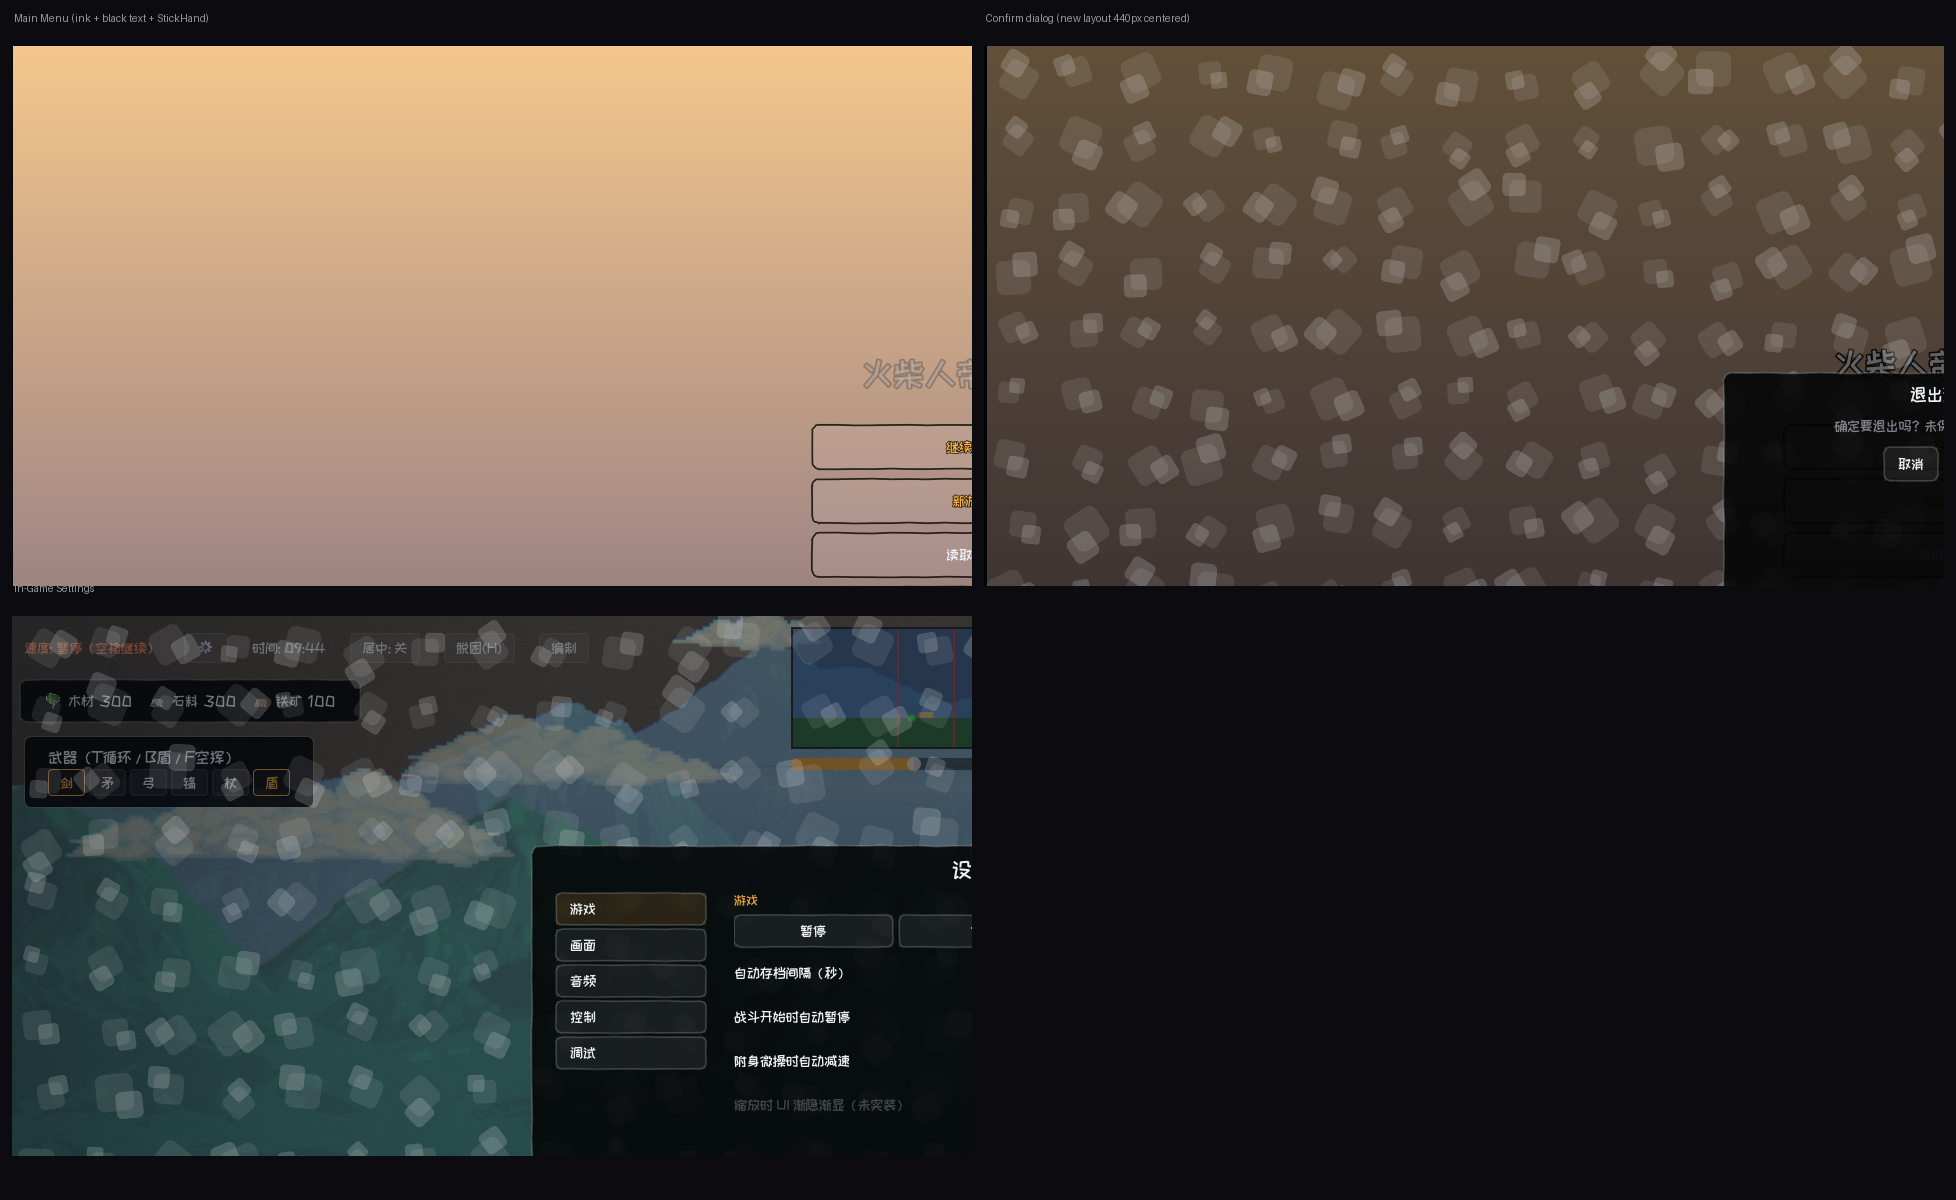
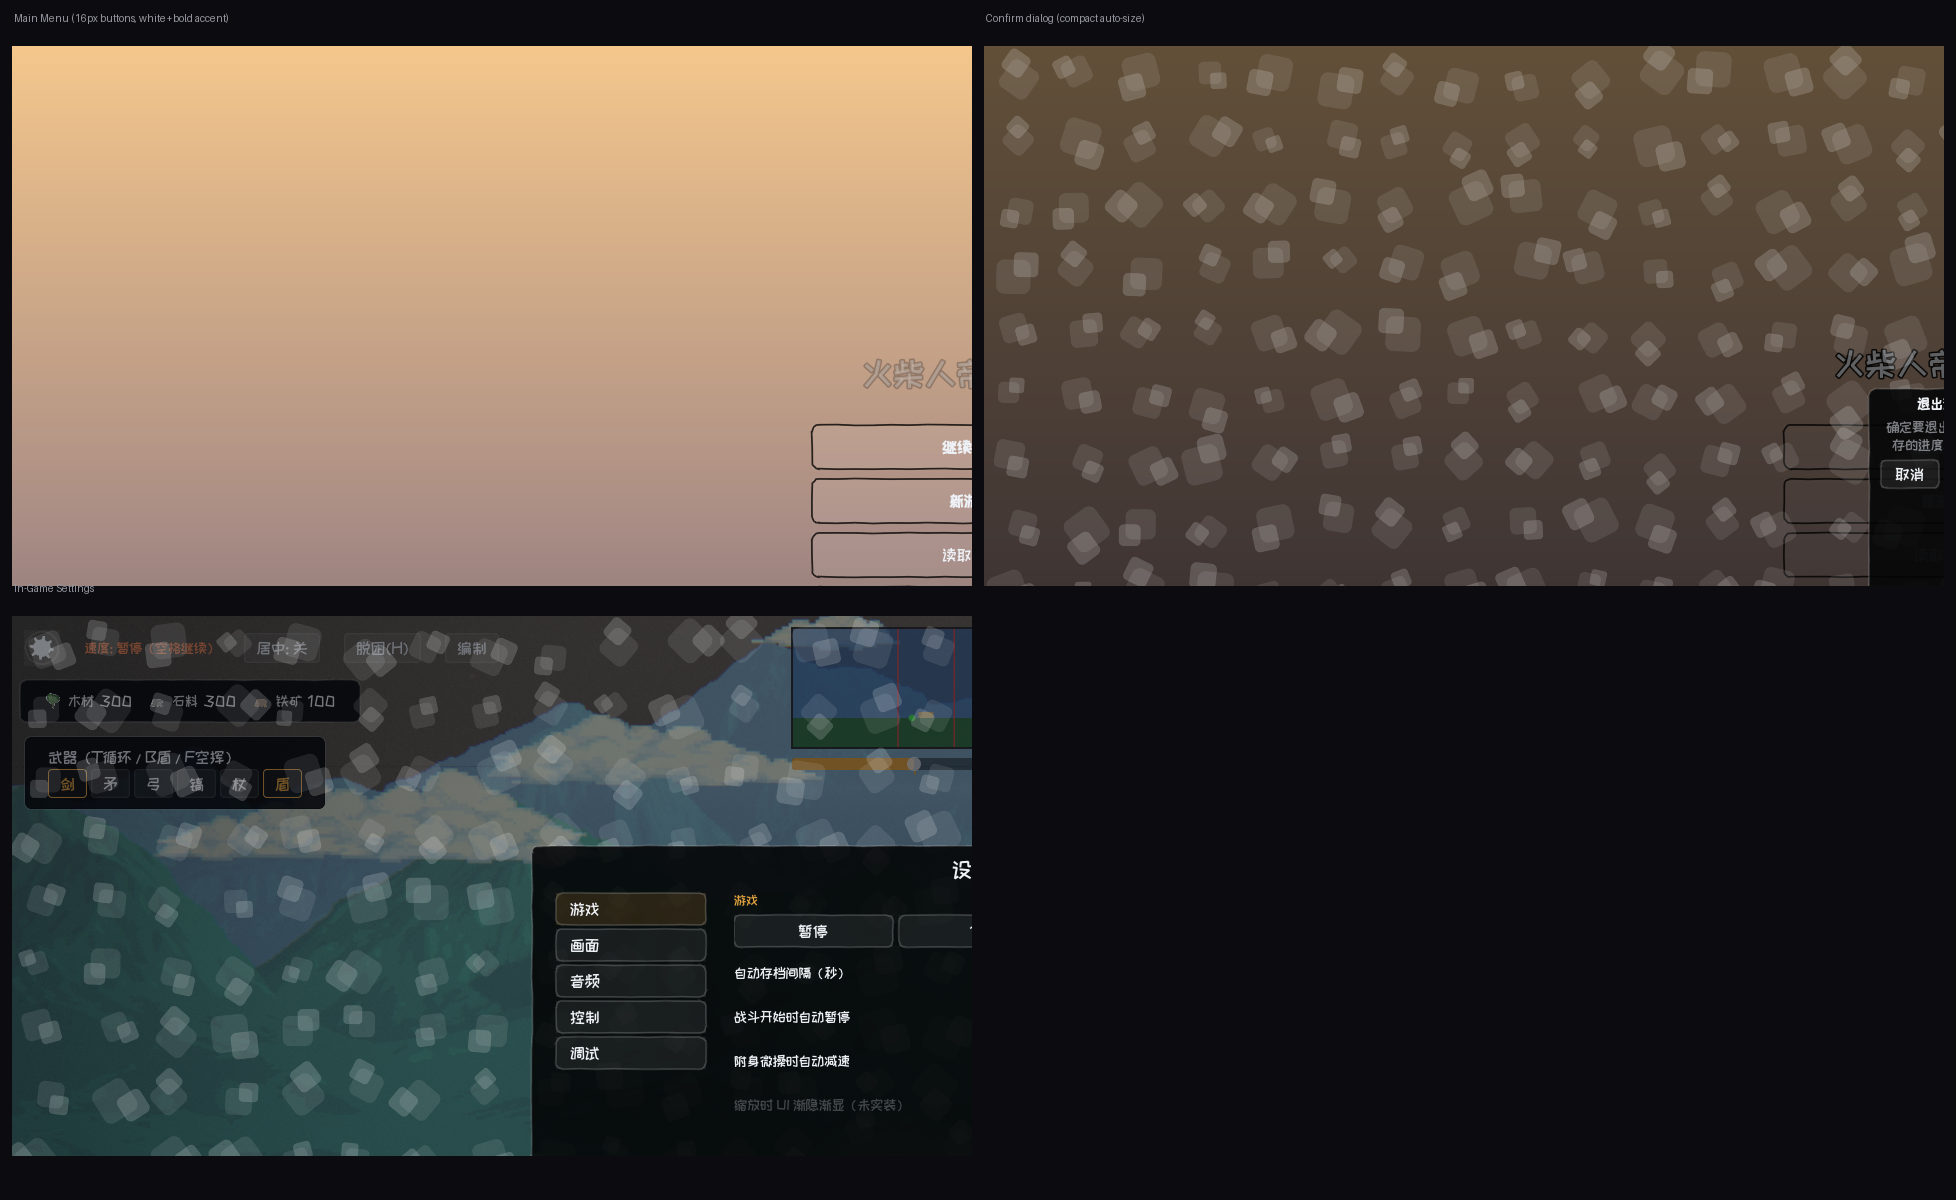
feat(ui): 等粗字体管线/确认框紧凑化/显式字体集/比例纪律入档

diff --git a/docs/设计/UI/01-设计语言.md b/docs/设计/UI/01-设计语言.md
@@ -83,6 +83,18 @@
 同一纹理缺乏"逐个手画"的差异；自绘每控件独立 seed 逐帧随机重掷，是真沸腾——
 与血条在同一个世界里的同一种"活"。
 
+### 1.5 比例与紧凑纪律
+
+- **字号跟控件走**：按钮文字 ≥ 控件高的 1/2（32px 按钮 ≥16px 字、44px ≥18px），
+  不做"大按钮小字"的空洞感；调控件尺寸时同步审字号比例。
+- **对比优先于装饰**：可读性问题优先用加粗（`SketchFonts.bold()` 伪粗）、
+  底色对比、字号档位解决；描边/阴影是最后手段（描边让字糊、观感脏）。
+- **强调色只上底不上字**：ACCENT 按钮字色 = 白 + 伪粗，区分靠琥珀底
+  （14%/hover 26%）；琥珀字在暖背景上不可读，禁止再用。
+- **弹窗随内容自适应**：小对话框（确认框等）宽度由文本撑开、紧凑内边距
+  （`SketchPanel.compact`），一行内容就一行高度；固定大 min 宽/高是大面板
+  （设置/暂停）的特权。
+
 ---
 
 ## 二、色彩 Token
